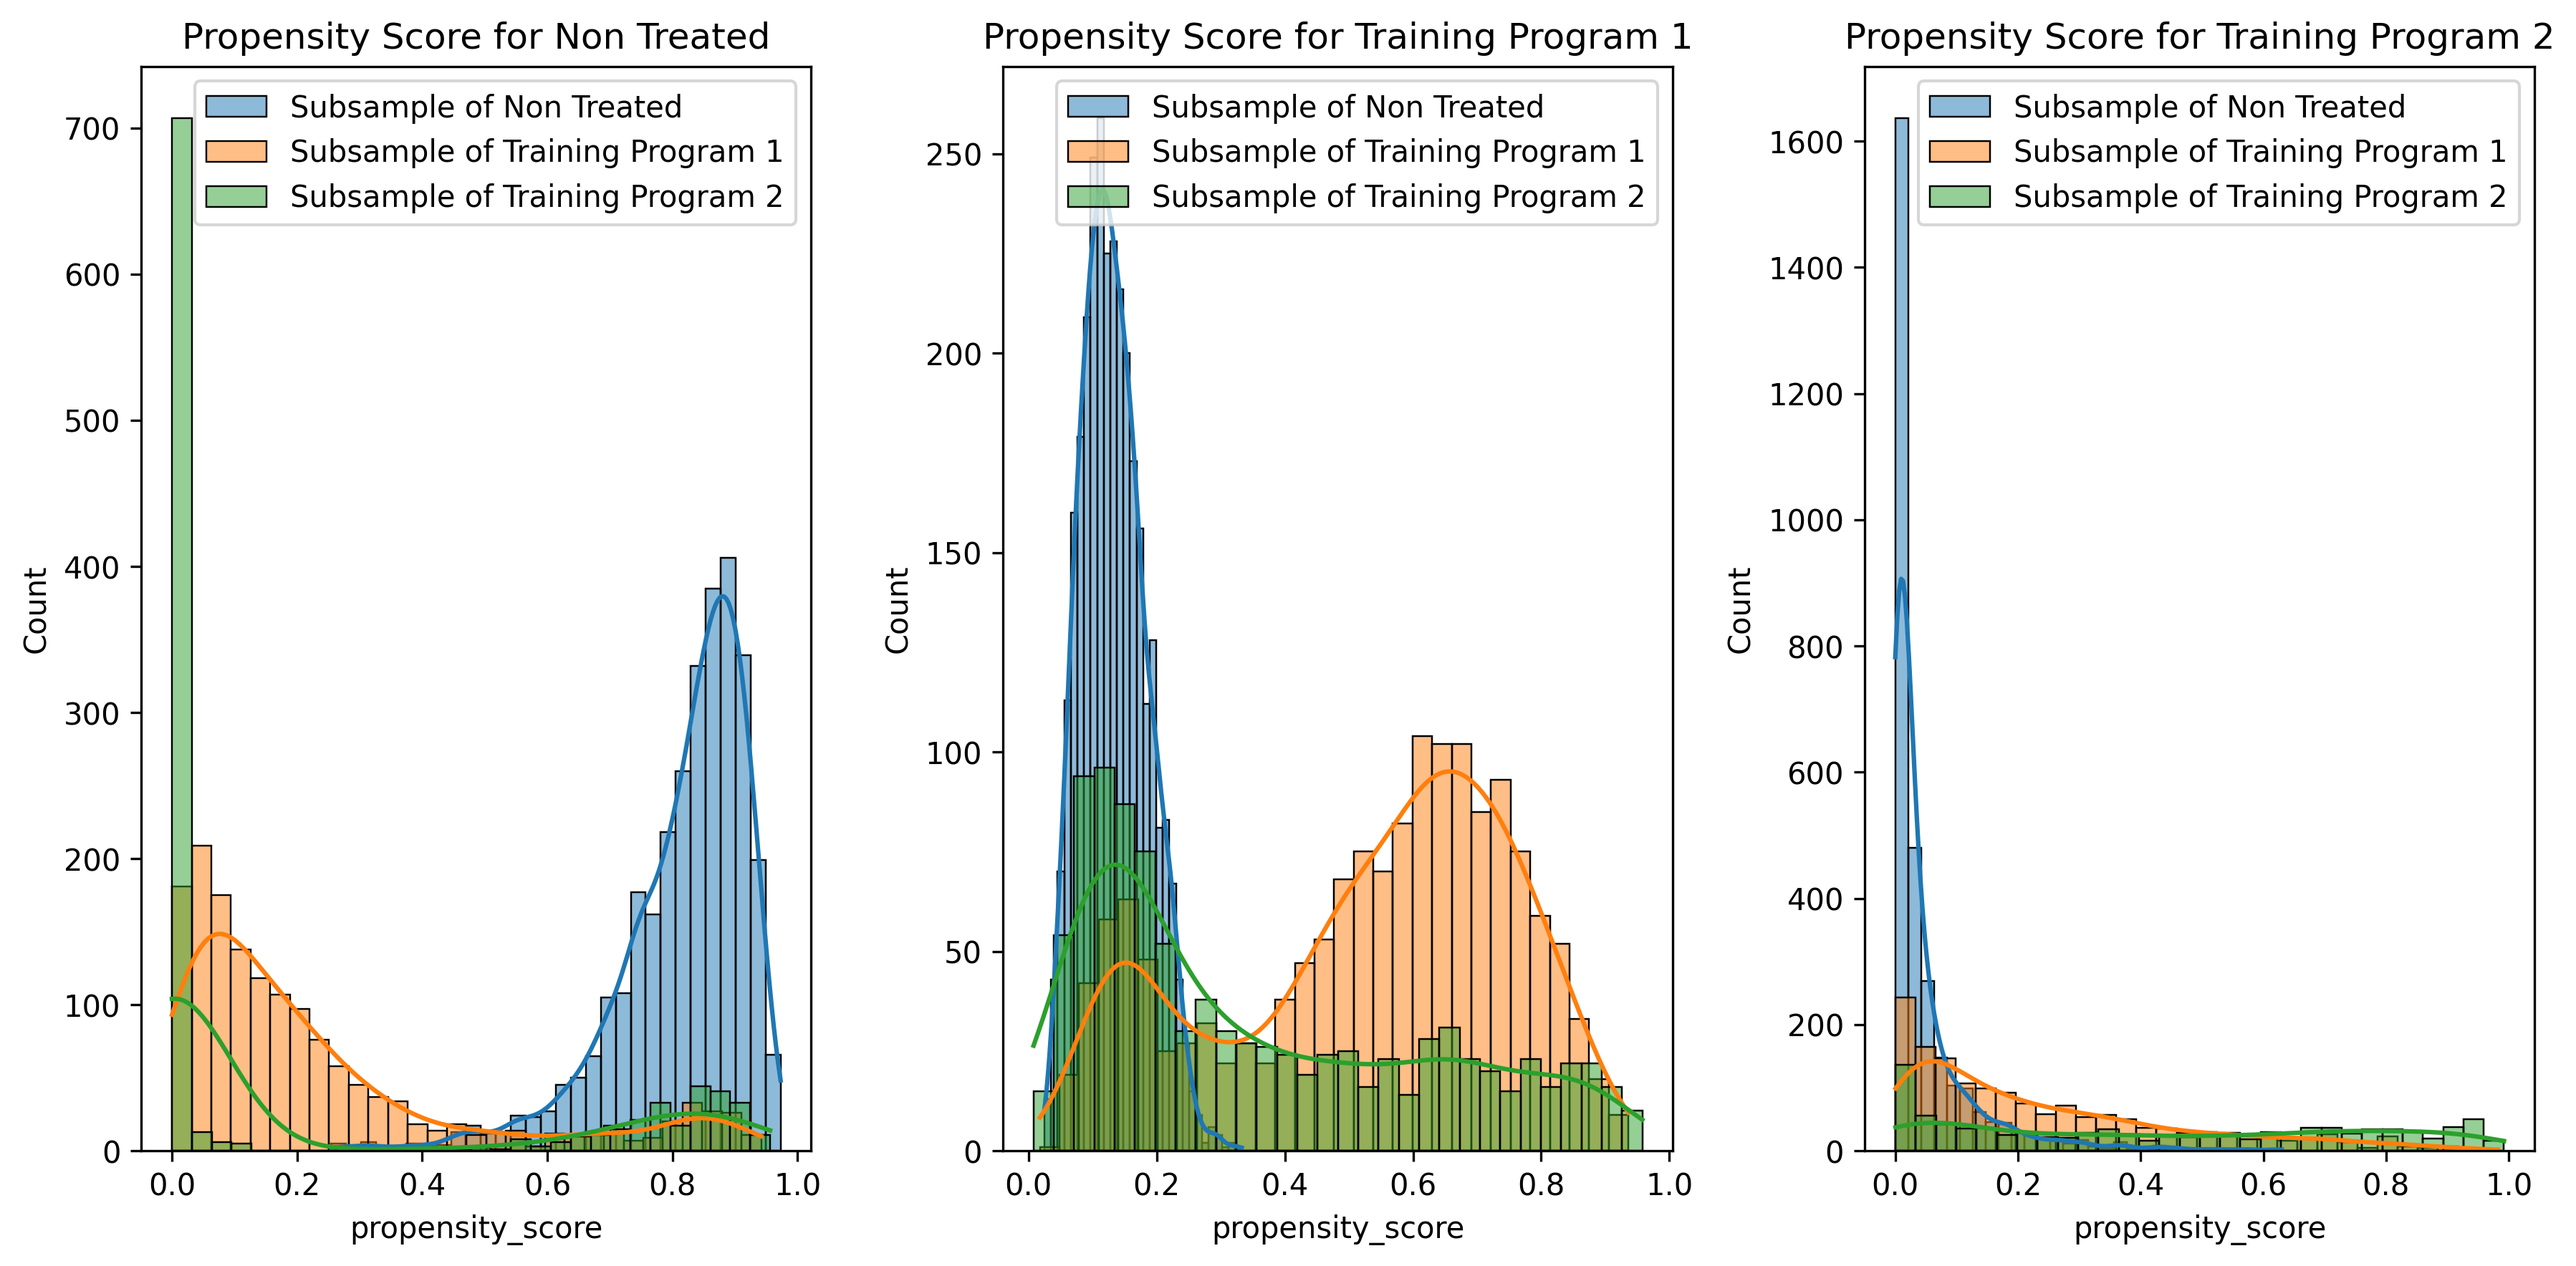
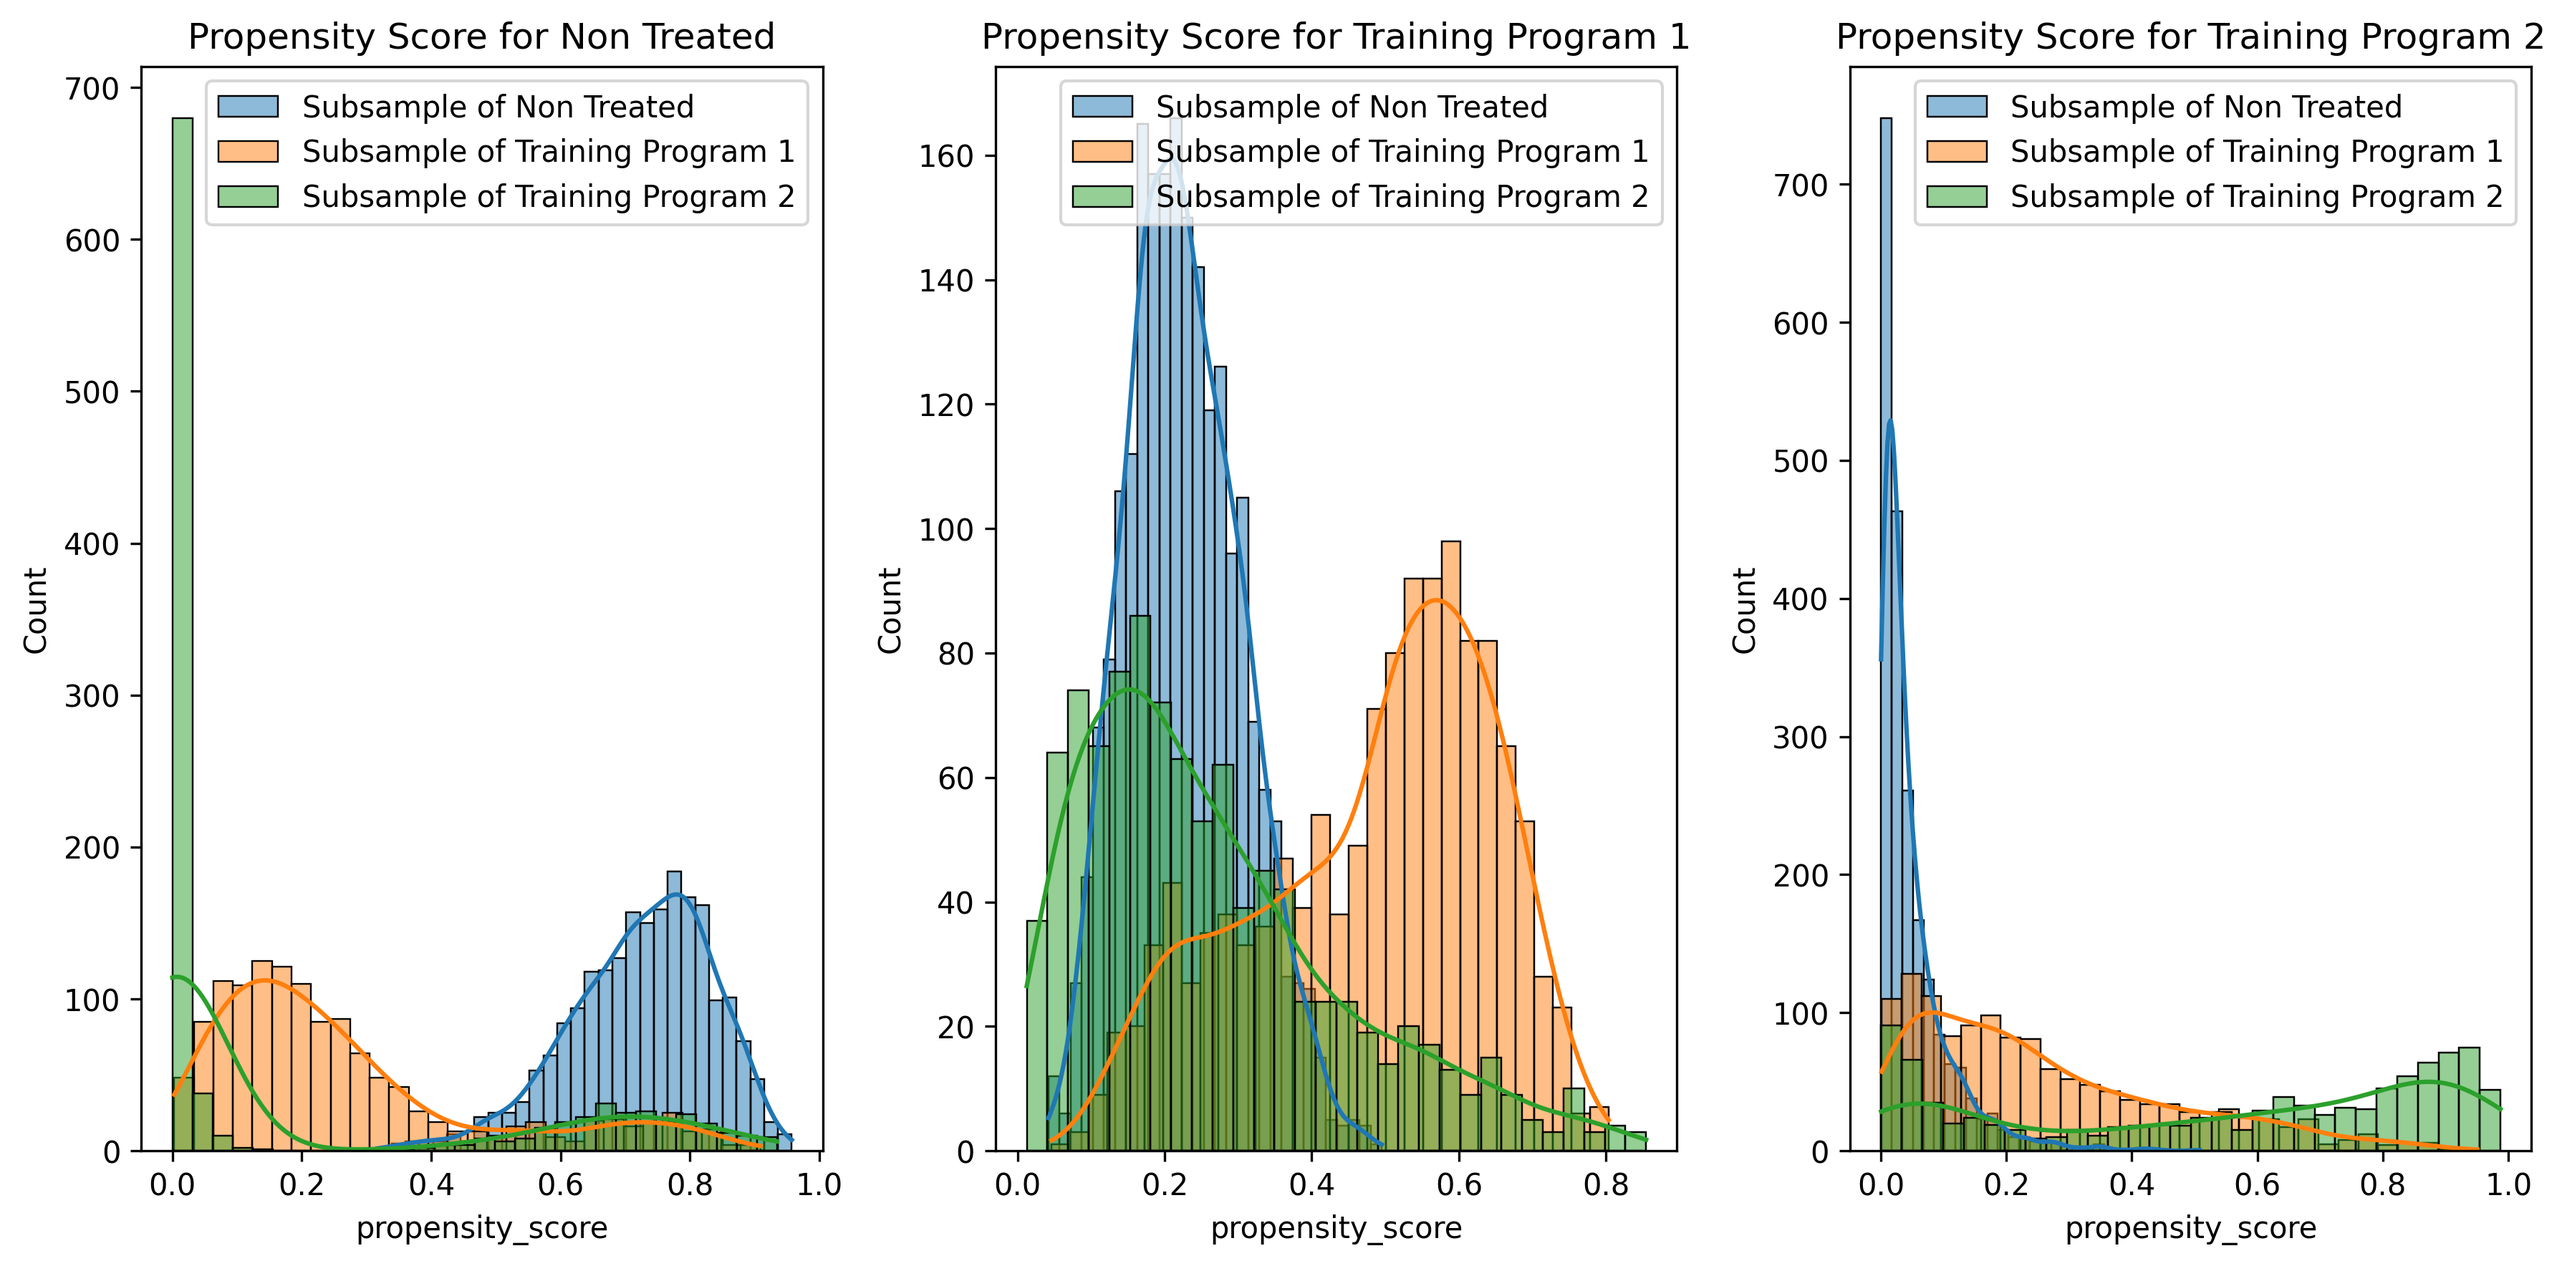
Update propensity score function to exclude vocational degree 2 for common support analysis. Modify output images for propensity score subsample and whole sample to reflect changes.

diff --git a/src/propensity_score.py b/src/propensity_score.py
@@ -17,6 +17,11 @@ def propensity_score(df):
     Args:
         df (pandas.DataFrame): Input dataframe containing treatment and covariate data
     """
+    # Exclude vocational degree 2 
+    #   for calculating propensity scores, and look for common support
+    #   (i.e. propensity scores and the distribution of the covariates should not be too different between treatment groups)
+    df = df.query("VOC_DEG != 2")
+
     # Calculate average quarterly earnings for years X1 and X2
     df['EARNX1'] = df[['EARNX1_1', 'EARNX1_2', 'EARNX1_3', 'EARNX1_4']].mean(axis=1)
     df['EARNX2'] = df[['EARNX2_1', 'EARNX2_2', 'EARNX2_3', 'EARNX2_4']].mean(axis=1)
